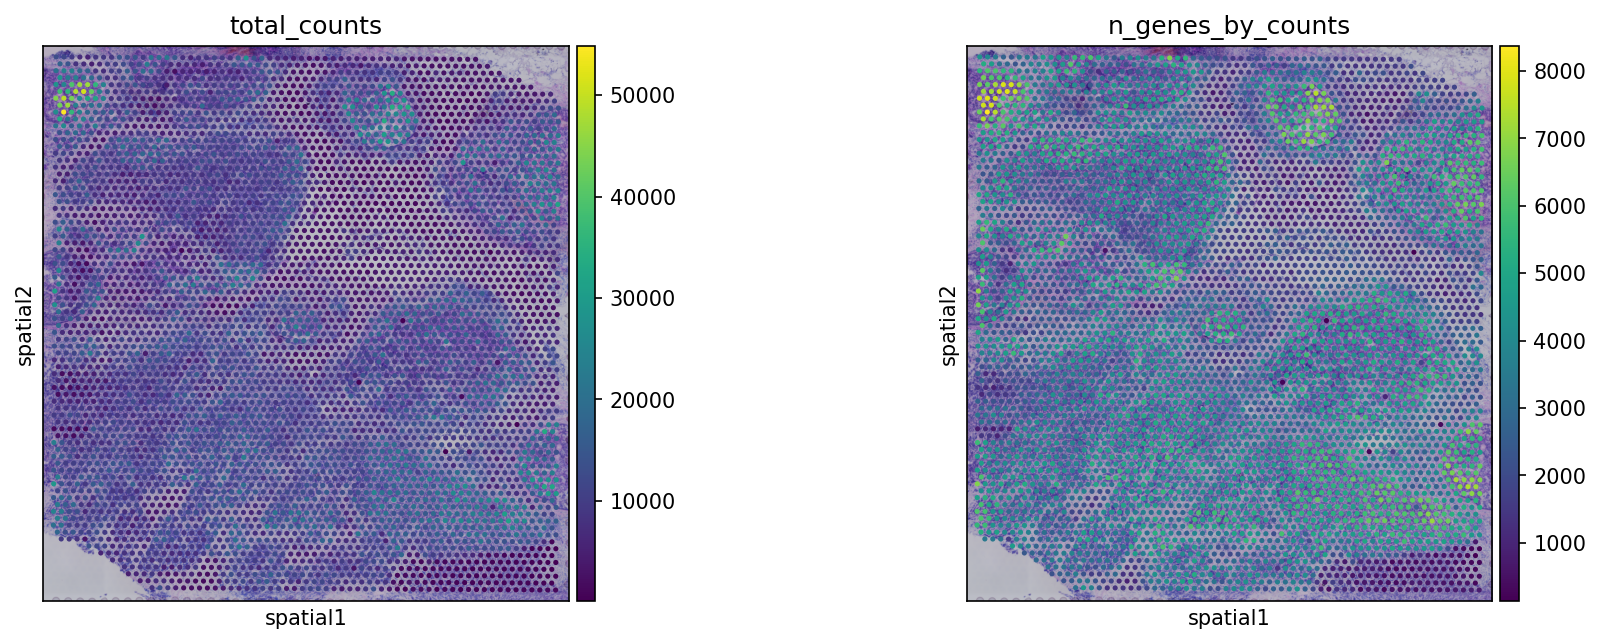
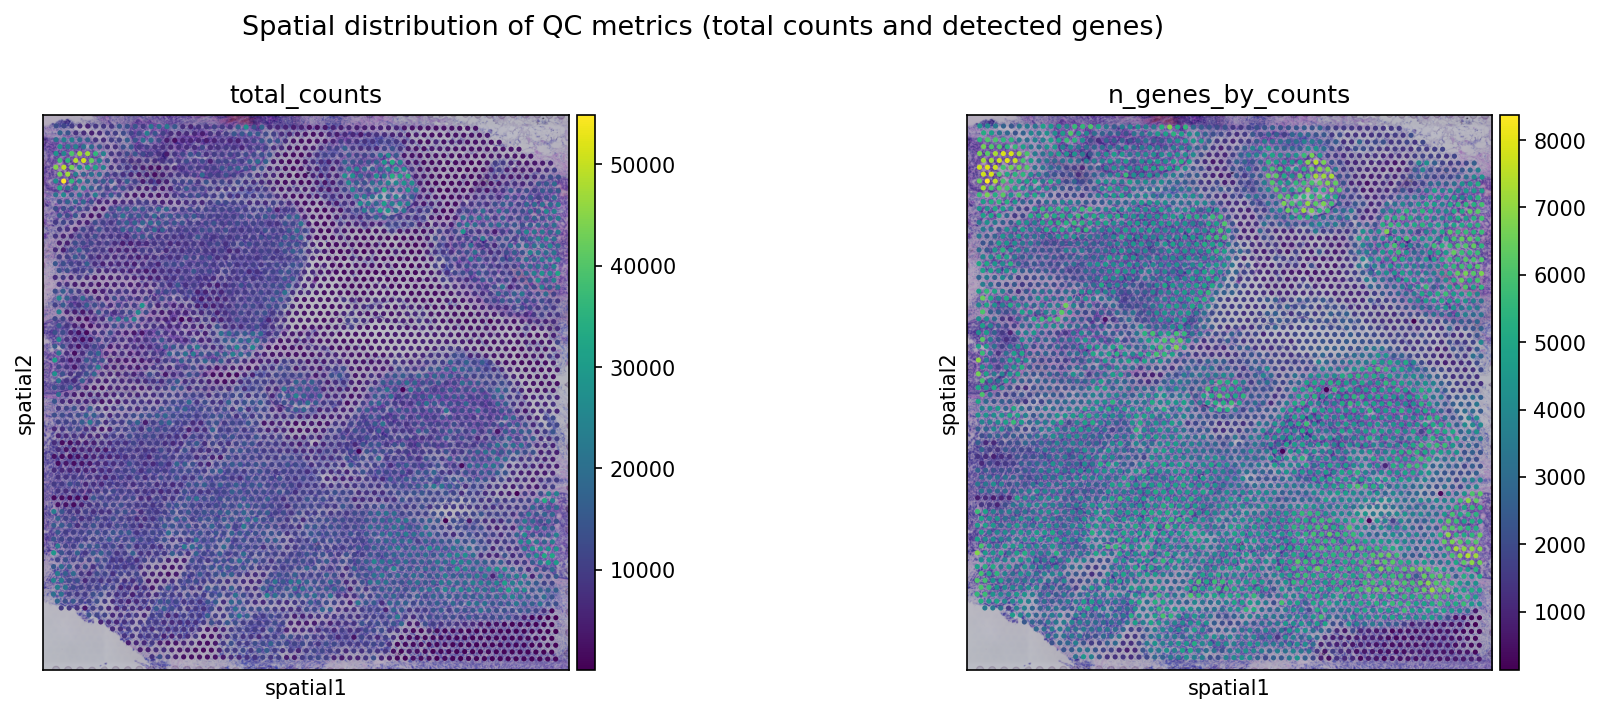
📊 QC 図にタイトルを追加し、前後で軸範囲を固定
- plot_qc_violin() / plot_spatial() に title 引数を追加。
  タイトルは英語1行とする。matplotlib の既定フォントは日本語を持たず
  豆腐（□）になり、日本語を出すには環境ごとのフォント設定が必要で
  CI や他マシンで同じ図が再現できなくなるため。
  2行にするとサブプロット名と重なるため1行に収める。
- plot_qc_violin() に ylims を追加。フィルタ前の分布から決めた範囲を
  前後の図の両方に適用する。自動スケールのままでは軸が変わり、
  pct_counts_mt が 12 で切断されたことが図から読み取れなかった。
- フィルタ後の図のタイトルに閾値を入れ、図だけで条件が分かるようにした。

diff --git a/src/visualization.py b/src/visualization.py
@@ -11,6 +11,22 @@ import scanpy as sc
 import squidpy as sq
 
 
+def _set_title(title: str | None) -> None:
+    """
+    図全体のタイトルを設定する。`bbox_inches="tight"` での保存を前提に余白を取る。
+
+    タイトルは英語で書くこと。matplotlib の既定フォントは日本語を持たず、
+    豆腐（□）になる。日本語を出すには環境ごとにフォント設定が必要で、
+    CI や他マシンで同じ図が再現できなくなる。
+    サブプロット名と重なるため1行に収めること。
+    """
+    if not title:
+        return
+    import matplotlib.pyplot as plt
+
+    plt.gcf().suptitle(title, fontsize=13, y=1.04)
+
+
 def plot_qc_violin(
     adata: sc.AnnData,
     keys: Iterable[str] = ("total_counts", "n_genes_by_counts", "pct_counts_mt"),
@@ -18,16 +34,31 @@ def plot_qc_violin(
     save: str | Path | None = None,
     show: bool = False,
     dpi: int = 150,
+    title: str | None = None,
+    ylims: dict[str, tuple[float, float]] | None = None,
 ):
     """
     QC 指標の violin plot。
 
     `save` にパスを渡すと、その場所に画像として保存する。
     notebook から対話的に見たい場合は `show=True`。
+
+    `ylims` に `{指標名: (下限, 上限)}` を渡すと、その範囲に軸を固定する。
+    フィルタ前後の図を並べて比較するときは、前者の範囲を両方に与えること。
+    自動スケールのままでは軸が変わり、分布の変化を見誤る。
     """
     ret = sc.pl.violin(
         adata, keys=list(keys), groupby=groupby, multi_panel=True, show=show
     )
+    if ylims:
+        import matplotlib.pyplot as plt
+
+        # multi_panel=True の軸は keys の順に並ぶ
+        for ax, key in zip(plt.gcf().axes, list(keys)):
+            if key in ylims:
+                ax.set_ylim(*ylims[key])
+
+    _set_title(title)
     if save is not None:
         import matplotlib.pyplot as plt
 
@@ -64,6 +95,7 @@ def plot_spatial(
     dpi: int = 150,
     crop: bool = True,
     crop_margin: float = 0.02,
+    title: str | None = None,
 ) -> None:
     """
     Visium 形式の空間プロット（`sq.read.visium` で読んだ AnnData を想定）。
@@ -91,6 +123,8 @@ def plot_spatial(
     sq.pl.spatial_scatter(adata, **kwargs)
     if crop:
         _crop_to_spots(adata, library_id=library_id, img_key=img_key, margin=crop_margin)
+
+    _set_title(title)
 
     if save is not None:
         import matplotlib.pyplot as plt

diff --git a/scripts/run_qc.py b/scripts/run_qc.py
@@ -38,6 +38,18 @@ from src.visualization import plot_qc_violin, plot_spatial  # noqa: E402
 QC_KEYS = ["n_genes_by_counts", "total_counts", "pct_counts_mt"]
 
 
+def qc_ylims(
+    adata: sc.AnnData, keys: list[str], pad: float = 0.05
+) -> dict[str, tuple[float, float]]:
+    """フィルタ前の分布から軸範囲を決める。前後の図で同じ軸を使うため。"""
+    lims = {}
+    for k in keys:
+        lo, hi = float(adata.obs[k].min()), float(adata.obs[k].max())
+        m = (hi - lo) * pad
+        lims[k] = (lo - m, hi + m)
+    return lims
+
+
 def describe(adata: sc.AnnData, label: str) -> None:
     """QC 指標の分布を数値で出す（閾値を決める材料）。"""
     print(f"\n--- {label}: {adata.n_obs} spots x {adata.n_vars} genes ---")
@@ -57,13 +69,25 @@ def main() -> None:
     adata = read_visium_sample(sample_path)
     add_qc_metrics(adata)
     describe(adata, "フィルタ前")
-    plot_qc_violin(adata, keys=QC_KEYS, save=out_dir / "qc_violin_before.png")
+    # 軸範囲はフィルタ前の分布で固定し、前後の図を直接比較できるようにする
+    ylims = qc_ylims(adata, QC_KEYS)
+    plot_qc_violin(
+        adata,
+        keys=QC_KEYS,
+        save=out_dir / "qc_violin_before.png",
+        ylims=ylims,
+        title=(
+            "QC metric distributions (before filtering)  |  "
+            f"{adata.n_obs:,} spots x {adata.n_vars:,} genes"
+        ),
+    )
 
     # QC 指標の空間分布（組織の端や剥離の影響を確認する）
     plot_spatial(
         adata,
         color=["total_counts", "n_genes_by_counts"],
         save=out_dir / "qc_spatial.png",
+        title="Spatial distribution of QC metrics (total counts and detected genes)",
     )
 
     print(
@@ -78,7 +102,18 @@ def main() -> None:
         pct_counts_mt_max=qc["pct_counts_mt_max"],
     )
     describe(adata, "フィルタ後")
-    plot_qc_violin(adata, keys=QC_KEYS, save=out_dir / "qc_violin_after.png")
+    plot_qc_violin(
+        adata,
+        keys=QC_KEYS,
+        save=out_dir / "qc_violin_after.png",
+        ylims=ylims,
+        title=(
+            "QC metric distributions (after filtering)  |  "
+            f"{adata.n_obs:,} spots x {adata.n_vars:,} genes  |  "
+            f"min_genes={qc['min_genes_per_spot']}, min_cells={qc['min_cells']}, "
+            f"pct_counts_mt<{qc['pct_counts_mt_max']}"
+        ),
+    )
 
     processed = paths["data_processed"]
     processed.mkdir(parents=True, exist_ok=True)
